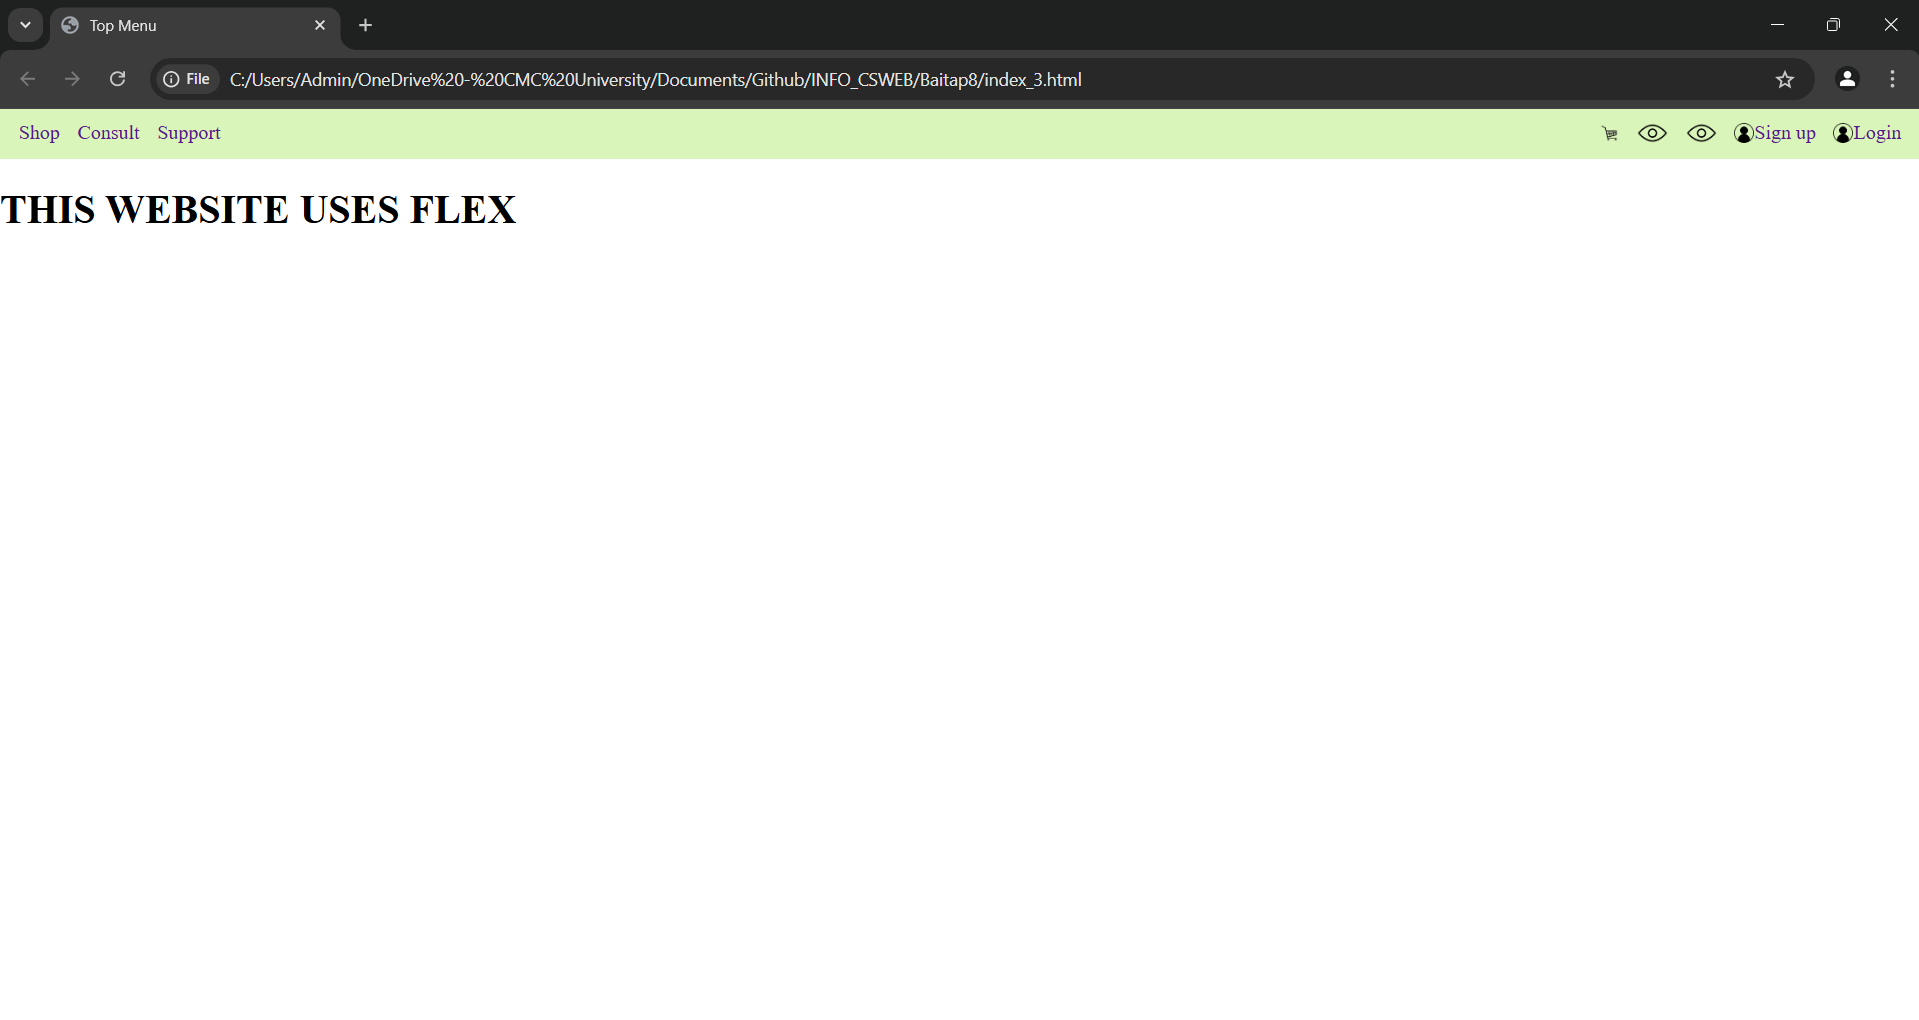
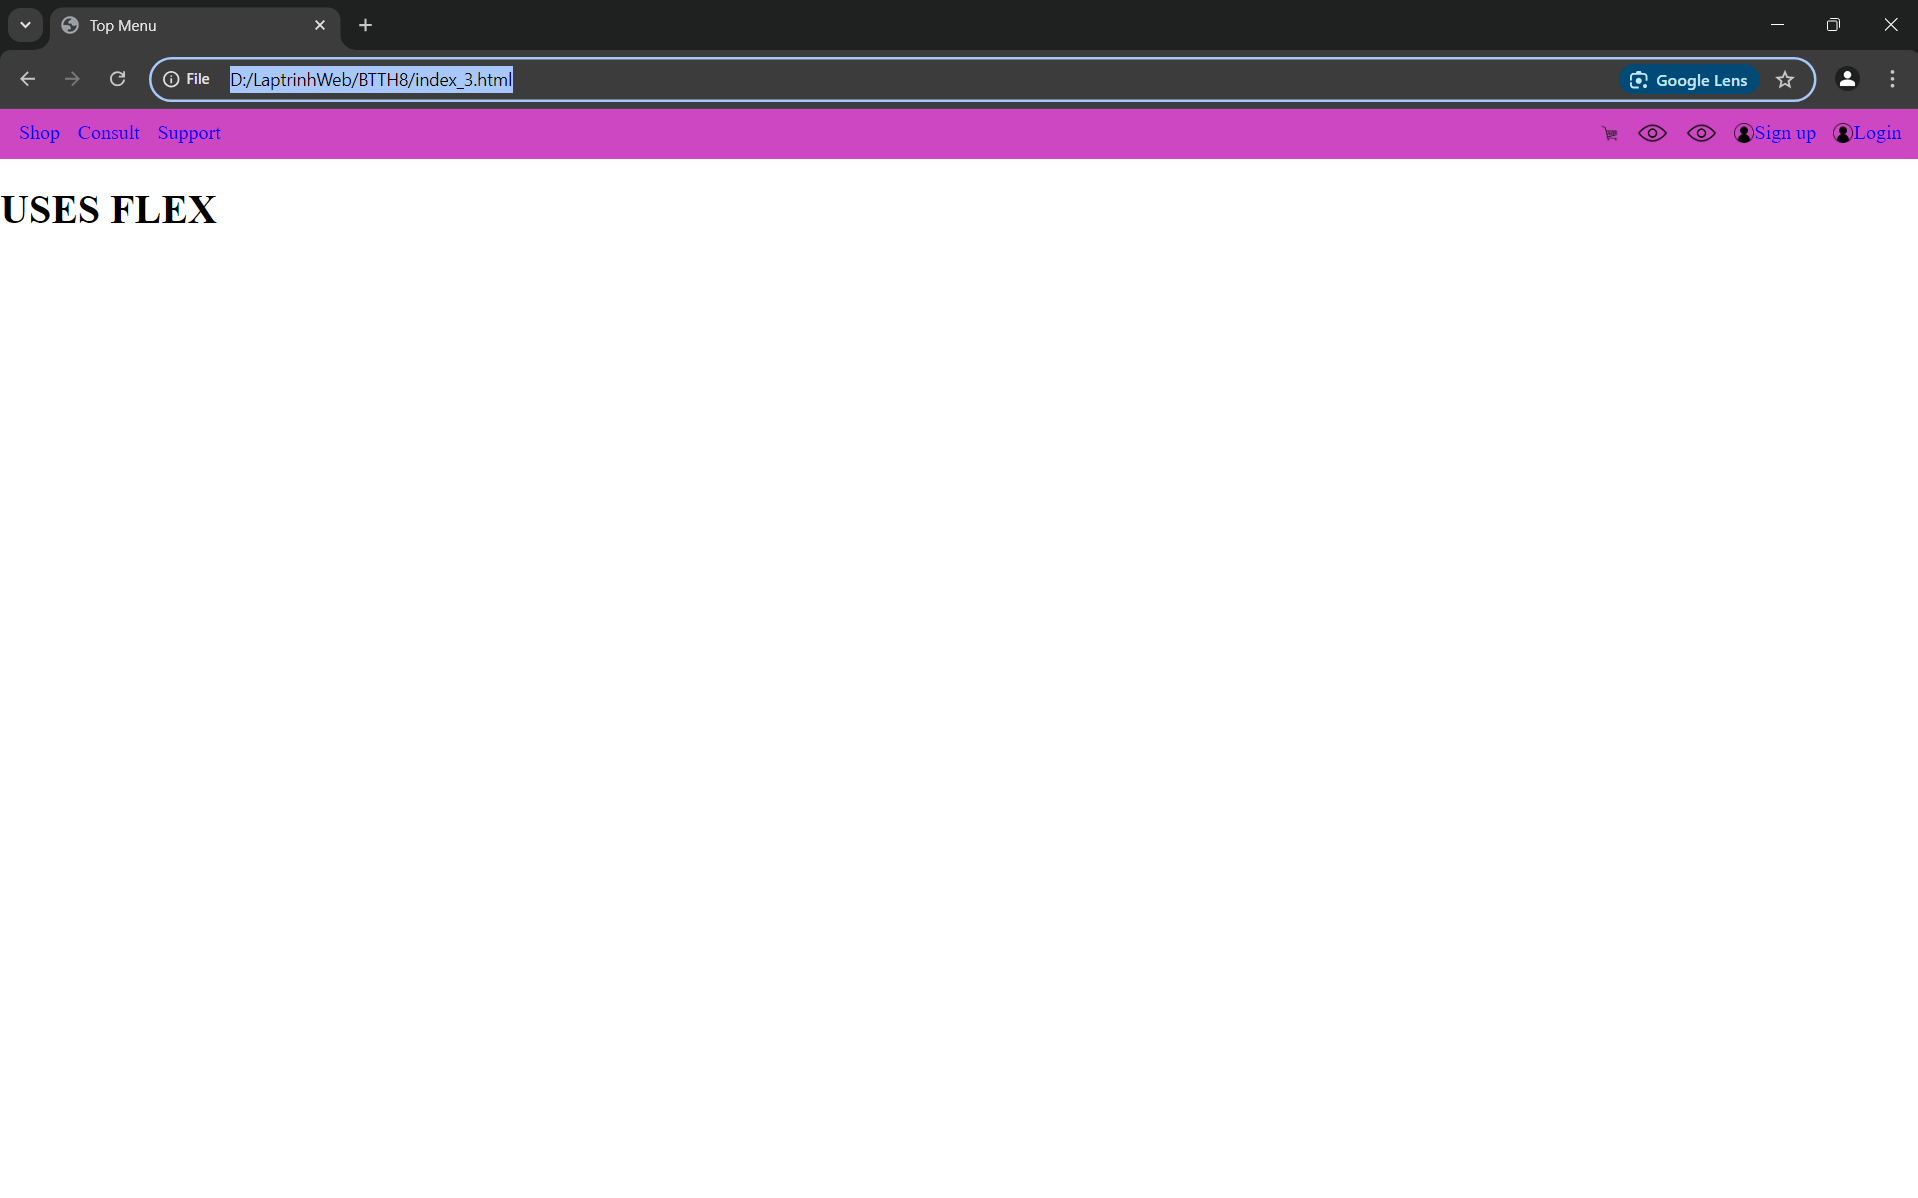
done

Changed region(s): [[0.0, 0.0304, 1.0, 0.2431], [0.0308, 0.0, 0.0923, 0.0304], [0.0, 0.0304, 0.0308, 0.0608]]

diff --git a/BTTH8/index_3.html b/BTTH8/index_3.html
@@ -22,7 +22,7 @@
                 <a href="#"><img src="images\user.png" alt="user">Login</a>
             </div>
         </div>
-        <h1>THIS WEBSITE USES FLEX</h1>
+        <h1>USES FLEX</h1>
     </div>
 </body>
 </html>

diff --git a/BTTH8/index_4.html b/BTTH8/index_4.html
@@ -22,7 +22,7 @@
                 <a href="#"><img src="images\user.png" alt="user">Login</a>
             </div>
         </div>
-        <h1>THIS WEBSITE USES GRID</h1>
+        <h1>USES GRID</h1>
     </div>
 </body>
 </html>
